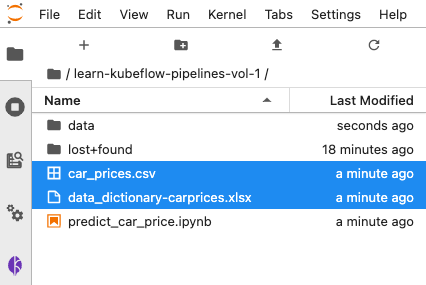
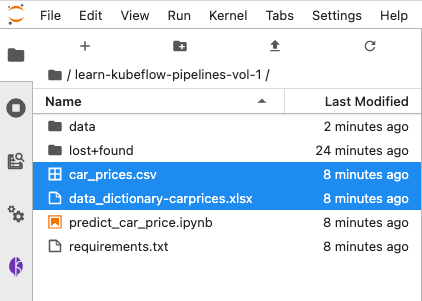
update upload files with requirements.txt and instructions for installing

diff --git a/docs/modules/notebook-to-pipeline/upload-handouts.md b/docs/modules/notebook-to-pipeline/upload-handouts.md
@@ -22,6 +22,9 @@ evaluates three models for predicting car prices based on our dataset. We will
 modify the code in small ways and annotate this notebook to define and run a
 Kubeflow pipeline!
 
+`requirements.txt` lists the Python modules required for our notebook. We'll
+use this file to install those requirements in a later step.
+
 #### 2. Open the learn-kubeflow-pipelines-vol-1 folder
 
 Double-click on the directory, `learn-kubeflow-pipelines-vol-1`.
@@ -44,14 +47,14 @@ Double-click on the directory, `learn-kubeflow-pipelines-vol-1`.
 
 You will see them appear in the `learn-kubeflow-pipelines-vol-1` directory.
 
-![vol 1 directory](images/new-folder-button.png)
+![vol 1 directory](images/uploaded-files.png)
 {: style="display: block; margin: auto; width:80%"}
 
 #### 5. Create a new folder
 
 Click the button to create a new folder.
 
-![create folder](images/create-folder.png)
+![create folder](images/new-folder-button.png)
 {: style="display: block; margin: auto; width:80%"}
 
 #### 6. Name the folder "data"
@@ -80,3 +83,32 @@ Click the *Enable* toggle in the *Kale Deployment panel* to enable Kale.
 
 ![enable Kale](images/enable-kale.png)
 {: style="display: block; margin: auto; width:80%"}
+
+#### 10. Launch a Terminal
+
+Click the *Launcher* tab and launch a terminal.
+
+![launch terminal](images/launch-terminal.png)
+{: style="display: block; margin: auto; width:80%"}
+
+#### 11. Install Requirements
+
+In the terminal enter the following commands.
+
+Change to the learn-kubeflow-pipelines-vol-1 directory.
+
+`cd learn-kubeflow-pipelines-vol-1`
+
+Install the Python modules required by this notebook.
+
+`pip install -r requirements.txt`
+
+![launch terminal](images/install.png)
+{: style="display: block; margin: auto; width:80%"}
+
+#### 12. Restart the Kernel
+
+In the `predict_car_price.ipynb` notebook, restart the kernel.
+
+![restart kernel](images/restart-kernel.png)
+{: style="display: block; margin: auto; width:80%"
